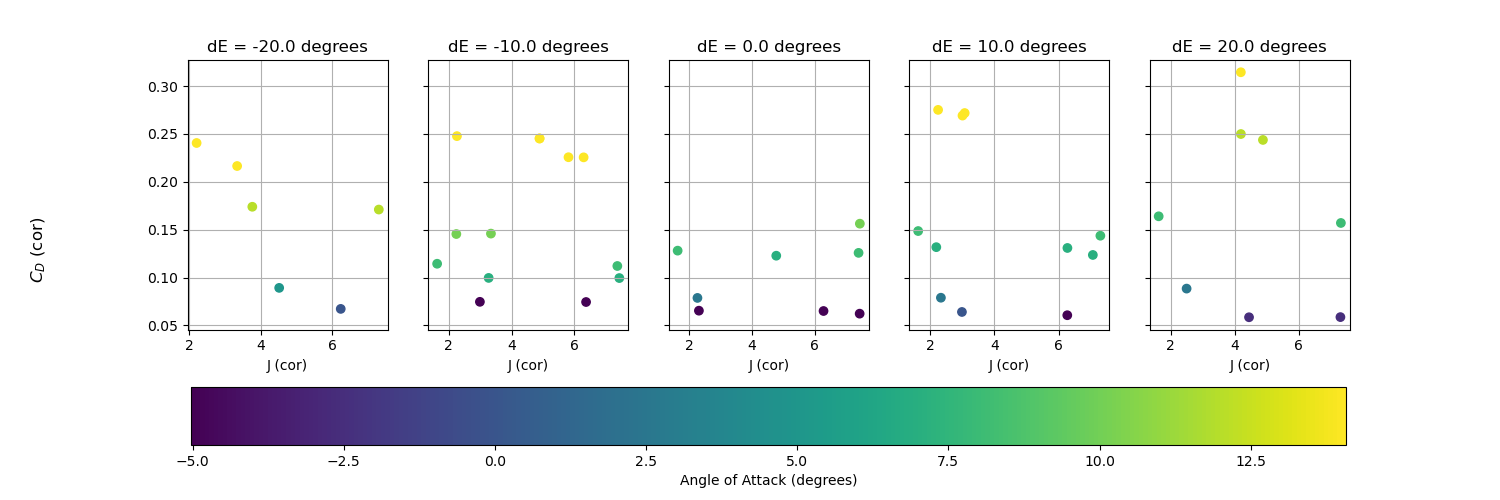
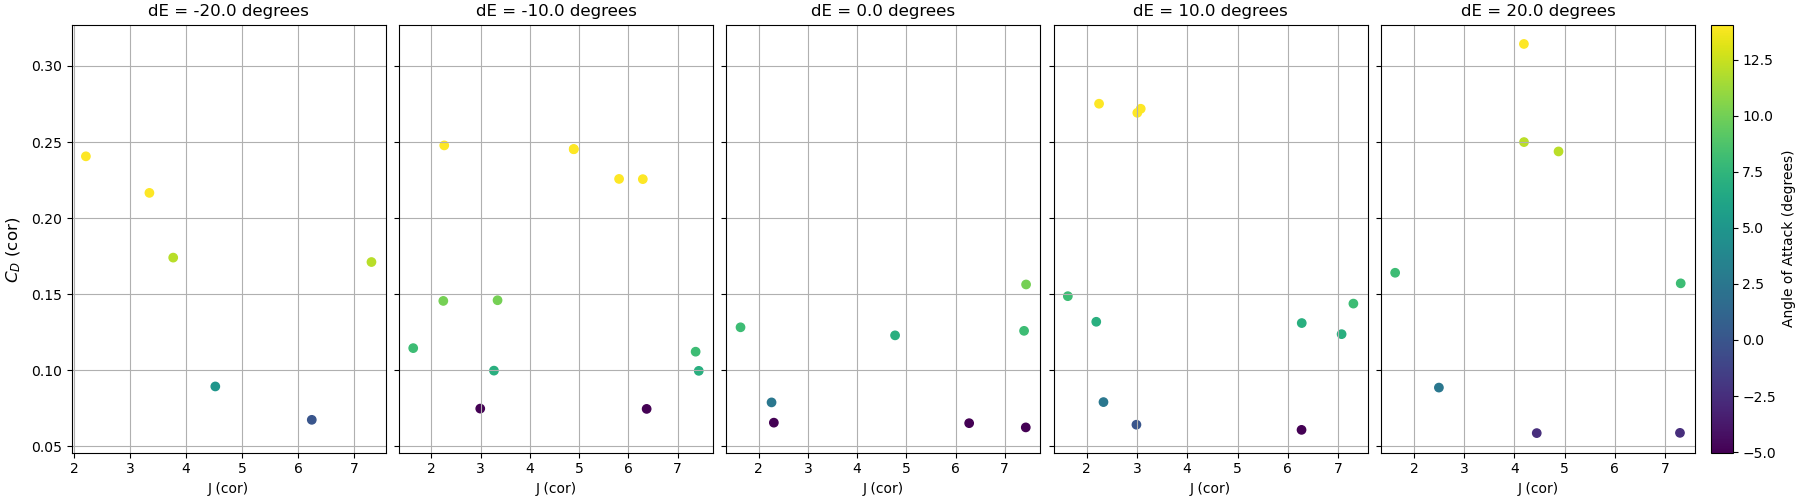
make good

diff --git a/main.py b/main.py
@@ -56,7 +56,7 @@ if __name__=='__main__':
     dE_list = dE_list[~np.isnan(dE_list)]
     dE_list = np.unique(dE_list)
     for plotting in list_of_plots.keys(): #list_of_plots.keys()
-        fig = plt.figure(figsize=(15, 5))
+        fig = plt.figure(figsize=(18, 5), constrained_layout=True)
         ax = fig.subplots(1, len(dE_list), sharey=True)
         cdat_min = 0
         cdat_max = 0
@@ -276,7 +276,7 @@ if __name__=='__main__':
             scc.set_cmap(cmap)
             scc.set_norm(norm)
         sm = cm.ScalarMappable(norm=norm, cmap=cmap)
-        cbar = fig.colorbar(sm, ax=ax, pad=0.15,orientation='horizontal', location='bottom')
+        cbar = fig.colorbar(sm, ax=ax, pad=0.01, location='right', fraction=0.025,)
         cbar.set_label(f"{list_of_plots[plotting]['c_label']}")
         #fig.tight_layout()
         plt.savefig(f"results2/{plotting}.png")
@@ -393,13 +393,13 @@ if __name__=='__main__':
     plt.savefig("results2/trim_conditions.png")
     plt.close()
     # delta_e vs alpha for different J values
-    fig = plt.figure(figsize=(10, 5))
+    fig = plt.figure(figsize=(5, 5))
     ax = fig.subplots(1, 1)
     delta_e_propoff = delta_e_for_trim_propoff(alpha_linspace, result.x)
     for J_val in [0, 4, 8]:
         delta_e_grid = delta_e_for_trim(alpha_linspace, J_val, result.x)
-        ax.plot(alpha_linspace, delta_e_grid, label=f'J={J_val}')
-    ax.plot(alpha_linspace, delta_e_propoff, label=f'Prop-Off', ls='--', color='k')
+        ax.plot(alpha_linspace, delta_e_grid, label=f'J={J_val}', linewidth=1)
+    ax.plot(alpha_linspace, delta_e_propoff, label=f'Prop-Off', ls='--', color='k', linewidth=1)
     ax.set_title('Elevator Deflection for Trim Condition')
     ax.set_xlabel('Angle of Attack (degrees)')
     ax.set_ylabel('Elevator Deflection (degrees)')
